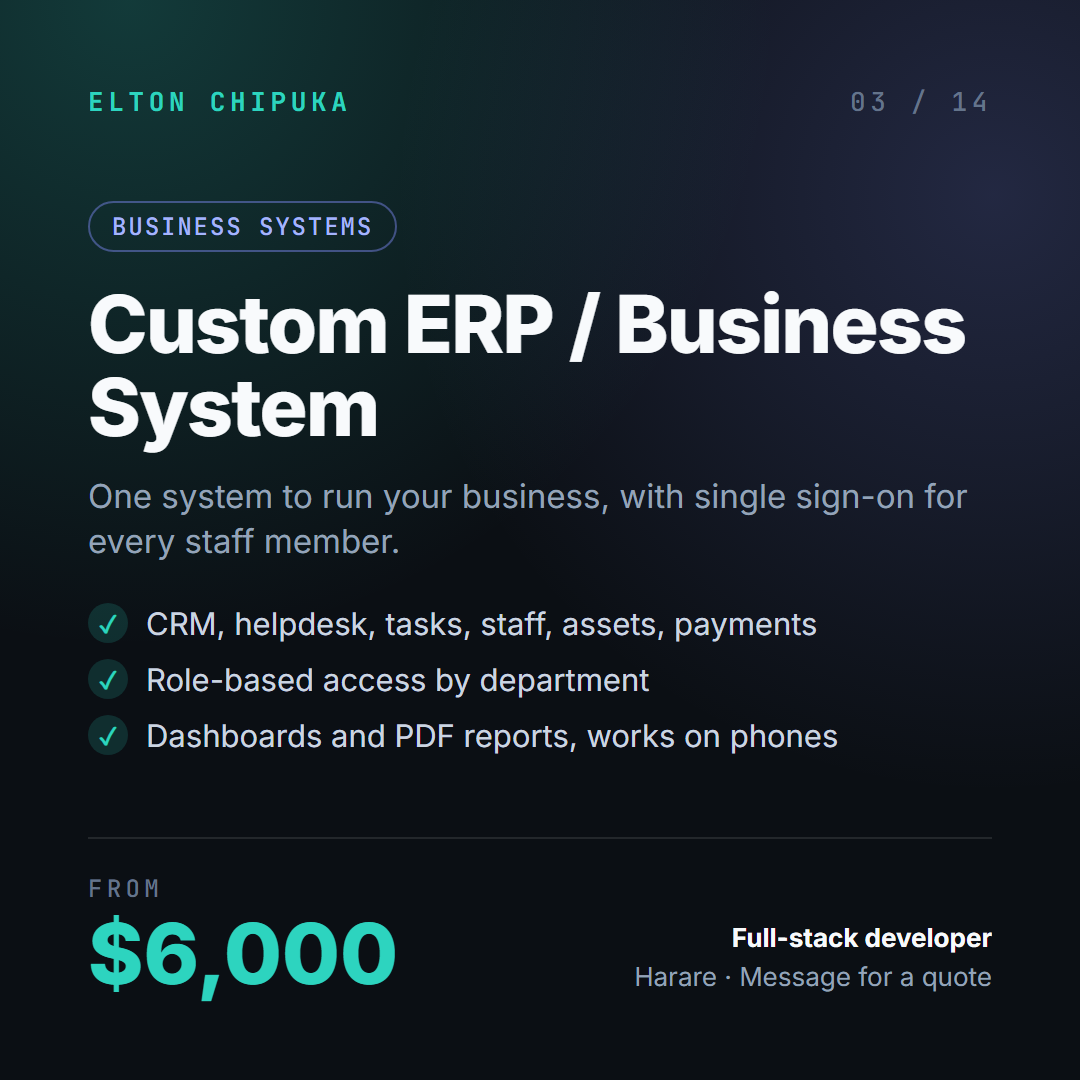
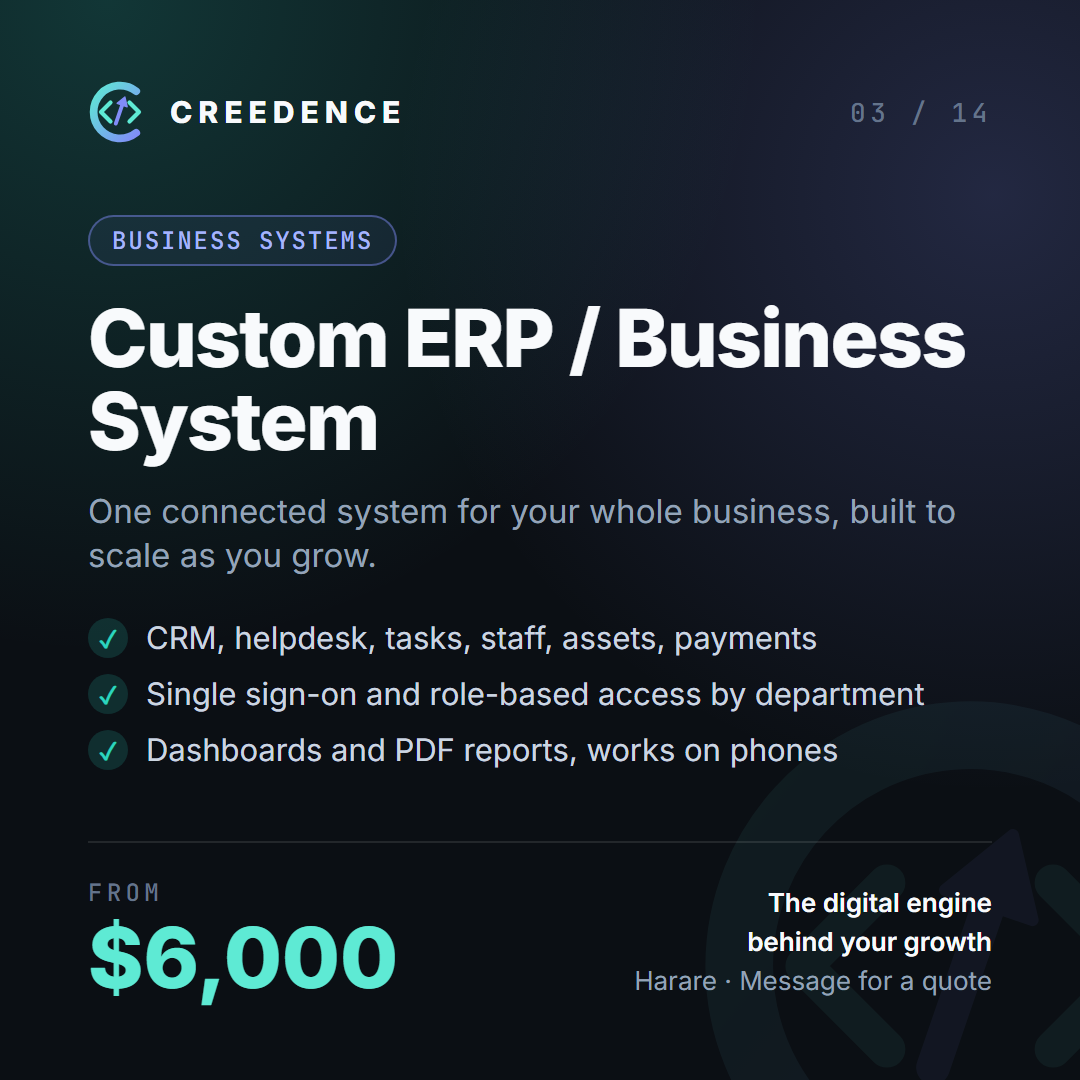
Rebrand the services catalogue as Creedence
Add the Creedence logo files under brand/ and rebuild the WhatsApp
catalogue around the new tagline, "The digital engine behind your
growth." Every cover image and the promo now carry the Creedence icon
and colours, item pitches are reworded around growth, and a light set of
images is rendered alongside the dark one. The preview page gets the new
branding, a theme toggle and theme-matched images. The portfolio's
contact link now names Creedence.

diff --git a/whatsapp-catalogue/preview.html b/whatsapp-catalogue/preview.html
@@ -1,4 +1,4 @@
-<title>Elton Chipuka Services</title>
+<title>Creedence Services</title>
 <meta name="claude:viewport-fit-sides" content="cover">
 <meta name="viewport" content="width=device-width, initial-scale=1, viewport-fit=cover">
 <link rel="stylesheet" href="https://fonts.googleapis.com/css2?family=Inter:wght@400;500;600;700;800&family=JetBrains+Mono:wght@500;700&display=swap">
@@ -35,6 +35,17 @@
   .hero { padding-block: 56px 28px; display: grid; gap: 14px; }
   .eyebrow, .tag, .code { font-family: var(--mono); font-size: 0.75rem; letter-spacing: 0.14em; text-transform: uppercase; }
   .eyebrow { color: var(--accent); margin: 0; font-weight: 700; }
+  .logo { display: flex; align-items: center; gap: 12px; margin: 0; }
+  .logo span { font-family: var(--sans); font-weight: 800; font-size: 1.25rem; letter-spacing: 0.2em; color: var(--fg); text-transform: uppercase; }
+  /* Two copies of the mark: dark-logo colours by default, light-logo colours in the light theme. */
+  .mark-light { display: none; }
+  @media (prefers-color-scheme: light) {
+    :root:not([data-theme="dark"]) .mark-dark { display: none; }
+    :root:not([data-theme="dark"]) .mark-light { display: block; }
+  }
+  :root[data-theme="light"] .mark-dark { display: none; }
+  :root[data-theme="light"] .mark-light { display: block; }
+  .theme-btn { margin-left: auto; }
   h1 { margin: 0; font-size: clamp(2rem, 6vw, 2.75rem); line-height: 1.1; letter-spacing: -0.02em; font-weight: 800; text-wrap: balance; }
   .lede { margin: 0; color: var(--muted); max-width: 60ch; }
   .contact { display: flex; flex-wrap: wrap; align-items: center; gap: 12px 16px; margin-top: 6px; }
@@ -119,11 +130,28 @@
 </style>
 
 <header class="wrap hero">
+  <div class="logo"><svg class="mark-dark" viewBox="318 318 364 364" width="48" height="48" aria-hidden="true">
+  <defs><linearGradient id="hero-d-ring" x1="0" y1="0" x2="1" y2="1"><stop offset="0" stop-color="#5eead4"/><stop offset="1" stop-color="#818cf8"/></linearGradient></defs>
+  <path d="M592.35 618.2 A150 150 0 1 1 592.35 381.8" fill="none" stroke="url(#hero-d-ring)" stroke-width="44" stroke-linecap="round"/>
+  <polyline points="446,446 392,500 446,554" fill="none" stroke="#5eead4" stroke-width="24" stroke-linecap="round" stroke-linejoin="round"/>
+  <polyline points="554,446 608,500 554,554" fill="none" stroke="#5eead4" stroke-width="24" stroke-linecap="round" stroke-linejoin="round"/>
+  <path d="M476 566 L514.21 454.7" fill="none" stroke="#818cf8" stroke-width="22" stroke-linecap="round"/>
+  <polygon points="527.84,414.98 540.63,470.12 483.88,450.63" fill="#818cf8" stroke="#818cf8" stroke-width="8" stroke-linejoin="round"/>
+</svg><svg class="mark-light" viewBox="318 318 364 364" width="48" height="48" aria-hidden="true">
+  <defs><linearGradient id="hero-l-ring" x1="0" y1="0" x2="1" y2="1"><stop offset="0" stop-color="#0f766e"/><stop offset="1" stop-color="#4f46e5"/></linearGradient></defs>
+  <path d="M592.35 618.2 A150 150 0 1 1 592.35 381.8" fill="none" stroke="url(#hero-l-ring)" stroke-width="44" stroke-linecap="round"/>
+  <polyline points="446,446 392,500 446,554" fill="none" stroke="#0f766e" stroke-width="24" stroke-linecap="round" stroke-linejoin="round"/>
+  <polyline points="554,446 608,500 554,554" fill="none" stroke="#0f766e" stroke-width="24" stroke-linecap="round" stroke-linejoin="round"/>
+  <path d="M476 566 L514.21 454.7" fill="none" stroke="#4f46e5" stroke-width="22" stroke-linecap="round"/>
+  <polygon points="527.84,414.98 540.63,470.12 483.88,450.63" fill="#4f46e5" stroke="#4f46e5" stroke-width="8" stroke-linejoin="round"/>
+</svg><span>Creedence</span>
+    <button type="button" class="icon-btn theme-btn" id="theme" aria-label="Switch theme"><svg viewBox="0 0 24 24" fill="none" stroke="currentColor" stroke-width="2" stroke-linecap="round"><circle cx="12" cy="12" r="4"/><path d="M12 2v2M12 20v2M4.93 4.93l1.41 1.41M17.66 17.66l1.41 1.41M2 12h2M20 12h2M6.34 17.66l-1.41 1.41M19.07 4.93l-1.41 1.41"/></svg></button>
+  </div>
   <p class="eyebrow">Services catalogue</p>
-  <h1>Elton Chipuka</h1>
-  <p class="lede">Full-stack developer in Harare, Zimbabwe. I build websites, online stores, business systems and mobile apps. Prices are starting prices in US dollars; message me for a quote that fits your requirements.</p>
+  <h1>The digital engine behind your growth.</h1>
+  <p class="lede">Creedence builds websites, online stores, business systems and mobile apps that help growing businesses sell more and run smoothly. Founded by Elton Chipuka, a full-stack developer in Harare, Zimbabwe. Prices are starting prices in US dollars; message me for a quote that fits your requirements.</p>
   <div class="contact">
-    <a class="btn btn-wa" href="https://wa.me/263787541207?text=Hi%20Elton%2C%20I%20saw%20your%20services%20catalogue%20and%20would%20like%20to%20discuss%20a%20project." target="_blank" rel="noreferrer">
+    <a class="btn btn-wa" href="https://wa.me/263787541207?text=Hi%20Elton%2C%20I%20saw%20the%20%24%7BBRAND%7D%20services%20catalogue%20and%20would%20like%20to%20discuss%20a%20project." target="_blank" rel="noreferrer">
       <svg viewBox="0 0 24 24" fill="none" stroke="currentColor" stroke-width="2"><path d="M7.9 20A9 9 0 1 0 4 16.1L2 22Z"/></svg>
       Chat on WhatsApp
     </a>
@@ -144,7 +172,7 @@
 <dialog id="detail" aria-labelledby="d-title"></dialog>
 
 <script>
-  const ITEMS = [{"code":"EC-WEB-01","tag":"Websites","name":"Business Website","price":300,"pitch":"A fast, professional website that sends enquiries straight to your WhatsApp.","features":["Up to 5 pages, designed mobile-first","WhatsApp chat button and contact form","Basic SEO: Google indexing, page titles, fast loading","Year-one hosting and .co.zw domain included"],"timeline":"1–2 weeks","extras":"Domain and hosting renewal from year two","proof":"My own portfolio site, built with React and TypeScript.","anchor":"","image":"images/01-ec-web-01.png","link":""},{"code":"EC-SHOP-01","tag":"E-commerce","name":"Online Store with Payments","price":600,"pitch":"Sell online with a product catalogue, cart and secure checkout.","features":["Paynow (EcoCash, cards), Stripe or PayPal","Quote requests and order tracking","Admin back office for products and orders"],"timeline":"3–5 weeks","extras":"Hosting, domain and payment processing fees","proof":"E-commerce and quotation platform for a curtain design and sales business.","anchor":"#projects","image":"images/02-ec-shop-01.png","link":""},{"code":"EC-ERP-01","tag":"Business systems","name":"Custom ERP / Business System","price":6000,"pitch":"One system to run your business, with single sign-on for every staff member.","features":["CRM, helpdesk, tasks, staff, assets, payments","Role-based access by department","Dashboards and PDF reports, works on phones"],"timeline":"2–4 months, delivered in phases","extras":"Hosting, data migration from old systems and third-party subscriptions","proof":"Enterprise ERP platform connecting multiple business services in one portal.","anchor":"#projects","image":"images/03-ec-erp-01.png","link":""},{"code":"EC-HELP-01","tag":"Business systems","name":"Helpdesk & Ticketing System","price":1500,"pitch":"Track every support request from open to closed, with nothing slipping through.","features":["Automatic assignment and SLA targets","Escalation when tickets run late","Email and real-time in-app notifications"],"timeline":"4–6 weeks","extras":"Hosting, and email or SMS charges","proof":"Helpdesk system that cut mean time to resolution by 25%.","anchor":"#projects","image":"images/04-ec-help-01.png","link":""},{"code":"EC-CRM-01","tag":"Business systems","name":"CRM & Customer Query System","price":1500,"pitch":"Log, route and resolve customer queries faster.","features":["Full customer and query history","SLA breach alerts","Live agent-performance dashboards"],"timeline":"4–6 weeks","extras":"Hosting, and email or SMS charges","proof":"Customer-care system handling 500+ queries a month, about 30% faster resolution.","anchor":"#projects","image":"images/05-ec-crm-01.png","link":""},{"code":"EC-FLOW-01","tag":"Automation","name":"Workflow & Approvals Automation","price":2500,"pitch":"Replace paper forms and email chains with tracked digital approvals.","features":["Multi-step approvals with e-signatures","Job cards, leave and purchase requests","Reminders, escalation and a full audit trail"],"timeline":"6–8 weeks","extras":"Hosting","proof":"Workflow engine powering six business products, from ticketing to performance reviews.","anchor":"#projects","image":"images/06-ec-flow-01.png","link":""},{"code":"EC-ASSET-01","tag":"Business systems","name":"Asset & Equipment Tracking","price":1200,"pitch":"Know who has every phone, laptop, POS unit or vehicle.","features":["Issue and return with approval sign-off","Fault tracking and live dashboard","Branded PDF reports"],"timeline":"3–5 weeks","extras":"Hosting","proof":"Tracks 300+ assets and reduced misplacement by 35%.","anchor":"#projects","image":"images/07-ec-asset-01.png","link":""},{"code":"EC-STAFF-01","tag":"Business systems","name":"Staff Deployment & Performance","price":2500,"pitch":"Schedule field staff and measure performance automatically.","features":["Daily and monthly performance scoring","Zone assignment and arrival check-in","Leave management and automated scheduling"],"timeline":"6–8 weeks","extras":"Hosting, and SMS charges","proof":"Runs 200+ staff across 200+ locations and improved deployment efficiency by about 40%.","anchor":"#projects","image":"images/08-ec-staff-01.png","link":""},{"code":"EC-APP-01","tag":"Mobile","name":"Mobile App (Android & iOS)","price":2500,"pitch":"A mobile app for your customers or staff, built for both platforms at once.","features":["GPS, maps and push notifications","Secure login and in-app payments","React Native or Flutter"],"timeline":"6–10 weeks","extras":"Hosting, plus Google Play and Apple developer accounts","proof":"Park-Check, a GPS smart-parking app with live countdowns and fine payments.","anchor":"#projects","image":"images/09-ec-app-01.png","link":""},{"code":"EC-GPS-01","tag":"Mapping","name":"GPS Tracking & Maps","price":2000,"pitch":"See your field staff or vehicles on a live map.","features":["Live location tracking","Geofenced zones with alerts","Map dashboards and reports"],"timeline":"4–6 weeks","extras":"GPS hardware, SIM and data charges, and hosting","proof":"Geofencing and live tracking platform for field staff.","anchor":"#projects","image":"images/10-ec-gps-01.png","link":""},{"code":"EC-INT-01","tag":"Integrations","name":"Payments & Notifications Setup","price":250,"pitch":"Add online payments and automatic alerts to your existing system.","features":["Paynow / EcoCash, Stripe or PayPal","SMS, email and WhatsApp alerts","Works with your current website or app"],"timeline":"1–2 weeks","extras":"Payment processing fees, and SMS or WhatsApp message charges","proof":"Multi-channel notification service sending SMS, email and WhatsApp alerts.","anchor":"#projects","image":"images/11-ec-int-01.png","link":""},{"code":"EC-BOT-01","tag":"WhatsApp","name":"WhatsApp Chatbot","price":500,"pitch":"Answer customers, take orders and handle bookings on WhatsApp, day and night.","features":["Menus, FAQs, orders and bookings in chat","Hand-over to a staff member when needed","Optional payments in chat: EcoCash and cards","Built on Meta's official WhatsApp Cloud API"],"timeline":"2–4 weeks","extras":"Meta's WhatsApp message fees, payment processing fees, a dedicated phone number, and hosting","proof":"Custom chatbots built with Node.js on the WhatsApp Business Cloud API.","anchor":"#contact","image":"images/12-ec-bot-01.png","link":""},{"code":"EC-DASH-01","tag":"Reporting","name":"Dashboards & Reports","price":400,"pitch":"Turn your spreadsheets and data into live dashboards.","features":["Charts and KPIs that update themselves","PDF and Excel exports","AI-written report summaries"],"timeline":"2–3 weeks","extras":"Hosting, and AI usage fees if AI summaries are included","proof":"Reporting engine with period comparisons and AI-generated summaries.","anchor":"#projects","image":"images/13-ec-dash-01.png","link":""},{"code":"EC-CARE-01","tag":"Support","name":"Monthly Support & Maintenance","price":50,"perMonth":true,"pitch":"Keep your website or system secure, backed up and up to date.","features":["Bug fixes and small changes","Backups, updates and monitoring","Priority response on WhatsApp"],"timeline":"Monthly, cancel any time","extras":"Each plan states its support hours, response times and backups","proof":"I maintain production systems used daily by hundreds of staff.","anchor":"#contact","image":"images/14-ec-care-01.png","link":""}];
+  const ITEMS = [{"code":"EC-WEB-01","tag":"Websites","name":"Business Website","price":300,"pitch":"A fast, professional website that turns visitors into WhatsApp enquiries.","features":["Up to 5 pages, designed mobile-first","WhatsApp chat button and contact form","Basic SEO: Google indexing, page titles, fast loading","Year-one hosting and .co.zw domain included"],"timeline":"1–2 weeks","extras":"Domain and hosting renewal from year two","proof":"My own portfolio site, built with React and TypeScript.","anchor":"","image":"images/01-ec-web-01.png","imageLight":"images-light/01-ec-web-01.png","link":""},{"code":"EC-SHOP-01","tag":"E-commerce","name":"Online Store with Payments","price":600,"pitch":"Sell around the clock with a product catalogue, cart and secure checkout.","features":["Paynow (EcoCash, cards), Stripe or PayPal","Quote requests and order tracking","Admin back office for products and orders"],"timeline":"3–5 weeks","extras":"Hosting, domain and payment processing fees","proof":"E-commerce and quotation platform for a curtain design and sales business.","anchor":"#projects","image":"images/02-ec-shop-01.png","imageLight":"images-light/02-ec-shop-01.png","link":""},{"code":"EC-ERP-01","tag":"Business systems","name":"Custom ERP / Business System","price":6000,"pitch":"One connected system for your whole business, built to scale as you grow.","features":["CRM, helpdesk, tasks, staff, assets, payments","Single sign-on and role-based access by department","Dashboards and PDF reports, works on phones"],"timeline":"2–4 months, delivered in phases","extras":"Hosting, data migration from old systems and third-party subscriptions","proof":"Enterprise ERP platform connecting multiple business services in one portal.","anchor":"#projects","image":"images/03-ec-erp-01.png","imageLight":"images-light/03-ec-erp-01.png","link":""},{"code":"EC-HELP-01","tag":"Business systems","name":"Helpdesk & Ticketing System","price":1500,"pitch":"Resolve every support request faster, with nothing slipping through.","features":["Automatic assignment and SLA targets","Escalation when tickets run late","Email and real-time in-app notifications"],"timeline":"4–6 weeks","extras":"Hosting, and email or SMS charges","proof":"Helpdesk system that cut mean time to resolution by 25%.","anchor":"#projects","image":"images/04-ec-help-01.png","imageLight":"images-light/04-ec-help-01.png","link":""},{"code":"EC-CRM-01","tag":"Business systems","name":"CRM & Customer Query System","price":1500,"pitch":"Log, route and resolve customer queries faster, and keep customers coming back.","features":["Full customer and query history","SLA breach alerts","Live agent-performance dashboards"],"timeline":"4–6 weeks","extras":"Hosting, and email or SMS charges","proof":"Customer-care system handling 500+ queries a month, about 30% faster resolution.","anchor":"#projects","image":"images/05-ec-crm-01.png","imageLight":"images-light/05-ec-crm-01.png","link":""},{"code":"EC-FLOW-01","tag":"Automation","name":"Workflow & Approvals Automation","price":2500,"pitch":"Replace paper forms and email chains with fast, tracked digital approvals.","features":["Multi-step approvals with e-signatures","Job cards, leave and purchase requests","Reminders, escalation and a full audit trail"],"timeline":"6–8 weeks","extras":"Hosting","proof":"Workflow engine powering six business products, from ticketing to performance reviews.","anchor":"#projects","image":"images/06-ec-flow-01.png","imageLight":"images-light/06-ec-flow-01.png","link":""},{"code":"EC-ASSET-01","tag":"Business systems","name":"Asset & Equipment Tracking","price":1200,"pitch":"Know who has every phone, laptop, POS unit or vehicle.","features":["Issue and return with approval sign-off","Fault tracking and live dashboard","Branded PDF reports"],"timeline":"3–5 weeks","extras":"Hosting","proof":"Tracks 300+ assets and reduced misplacement by 35%.","anchor":"#projects","image":"images/07-ec-asset-01.png","imageLight":"images-light/07-ec-asset-01.png","link":""},{"code":"EC-STAFF-01","tag":"Business systems","name":"Staff Deployment & Performance","price":2500,"pitch":"Schedule field staff and measure performance automatically.","features":["Daily and monthly performance scoring","Zone assignment and arrival check-in","Leave management and automated scheduling"],"timeline":"6–8 weeks","extras":"Hosting, and SMS charges","proof":"Runs 200+ staff across 200+ locations and improved deployment efficiency by about 40%.","anchor":"#projects","image":"images/08-ec-staff-01.png","imageLight":"images-light/08-ec-staff-01.png","link":""},{"code":"EC-APP-01","tag":"Mobile","name":"Mobile App (Android & iOS)","price":2500,"pitch":"Reach customers and staff on their phones, on Android and iOS at once.","features":["GPS, maps and push notifications","Secure login and in-app payments","React Native or Flutter"],"timeline":"6–10 weeks","extras":"Hosting, plus Google Play and Apple developer accounts","proof":"Park-Check, a GPS smart-parking app with live countdowns and fine payments.","anchor":"#projects","image":"images/09-ec-app-01.png","imageLight":"images-light/09-ec-app-01.png","link":""},{"code":"EC-GPS-01","tag":"Mapping","name":"GPS Tracking & Maps","price":2000,"pitch":"See your field staff or vehicles on a live map.","features":["Live location tracking","Geofenced zones with alerts","Map dashboards and reports"],"timeline":"4–6 weeks","extras":"GPS hardware, SIM and data charges, and hosting","proof":"Geofencing and live tracking platform for field staff.","anchor":"#projects","image":"images/10-ec-gps-01.png","imageLight":"images-light/10-ec-gps-01.png","link":""},{"code":"EC-INT-01","tag":"Integrations","name":"Payments & Notifications Setup","price":250,"pitch":"Get paid online and keep customers informed automatically.","features":["Paynow / EcoCash, Stripe or PayPal","SMS, email and WhatsApp alerts","Works with your current website or app"],"timeline":"1–2 weeks","extras":"Payment processing fees, and SMS or WhatsApp message charges","proof":"Multi-channel notification service sending SMS, email and WhatsApp alerts.","anchor":"#projects","image":"images/11-ec-int-01.png","imageLight":"images-light/11-ec-int-01.png","link":""},{"code":"EC-BOT-01","tag":"WhatsApp","name":"WhatsApp Chatbot","price":500,"pitch":"Answer customers, take orders and handle bookings on WhatsApp, day and night.","features":["Menus, FAQs, orders and bookings in chat","Hand-over to a staff member when needed","Optional payments in chat: EcoCash and cards","Built on Meta's official WhatsApp Cloud API"],"timeline":"2–4 weeks","extras":"Meta's WhatsApp message fees, payment processing fees, a dedicated phone number, and hosting","proof":"Custom chatbots built with Node.js on the WhatsApp Business Cloud API.","anchor":"#contact","image":"images/12-ec-bot-01.png","imageLight":"images-light/12-ec-bot-01.png","link":""},{"code":"EC-DASH-01","tag":"Reporting","name":"Dashboards & Reports","price":400,"pitch":"Turn your spreadsheets into live dashboards that show where to grow.","features":["Charts and KPIs that update themselves","PDF and Excel exports","AI-written report summaries"],"timeline":"2–3 weeks","extras":"Hosting, and AI usage fees if AI summaries are included","proof":"Reporting engine with period comparisons and AI-generated summaries.","anchor":"#projects","image":"images/13-ec-dash-01.png","imageLight":"images-light/13-ec-dash-01.png","link":""},{"code":"EC-CARE-01","tag":"Support","name":"Monthly Support & Maintenance","price":50,"perMonth":true,"pitch":"Keep your website or system secure, backed up and growing with you.","features":["Bug fixes and small changes","Backups, updates and monitoring","Priority response on WhatsApp"],"timeline":"Monthly, cancel any time","extras":"Each plan states its support hours, response times and backups","proof":"I maintain production systems used daily by hundreds of staff.","anchor":"#contact","image":"images/14-ec-care-01.png","imageLight":"images-light/14-ec-care-01.png","link":""}];
   const WA = '263787541207';
   const esc = (s) => String(s).replace(/[&<>"]/g, (c) => ({ '&': '&amp;', '<': '&lt;', '>': '&gt;', '"': '&quot;' })[c]);
   const usd = (n) => '$' + n.toLocaleString('en-US');
@@ -173,7 +201,7 @@
     visible = active === 'All' ? ITEMS : ITEMS.filter((it) => it.tag === active);
     list.innerHTML = visible.map((it, i) =>
       '<li><button type="button" class="row" data-i="' + i + '">' +
-        '<img src="' + it.image + '" alt="" width="88" height="88" loading="lazy">' +
+        '<img src="' + imageFor(it) + '" alt="" width="88" height="88" loading="lazy">' +
         '<span class="row-text">' +
           '<span class="tag">' + esc(it.tag) + '</span>' +
           '<span class="row-name">' + esc(it.name) + '</span>' +
@@ -193,7 +221,7 @@
     const it = visible[i];
     dialog.innerHTML =
       '<div class="detail">' +
-        '<img src="' + it.image + '" alt="' + esc(it.name) + ' cover image">' +
+        '<img src="' + imageFor(it) + '" alt="' + esc(it.name) + ' cover image">' +
         '<div class="d-body">' +
           '<div class="d-head"><div><span class="tag">' + esc(it.tag) + '</span><h2 id="d-title">' + esc(it.name) + '</h2></div>' +
             '<button type="button" class="icon-btn" data-act="close" aria-label="Close"><svg viewBox="0 0 24 24" fill="none" stroke="currentColor" stroke-width="2"><path d="M6 6l12 12M18 6 6 18"/></svg></button></div>' +
@@ -232,6 +260,27 @@
     if (e.key === 'ArrowLeft' && current > 0) openItem(current - 1);
     if (e.key === 'ArrowRight' && current < visible.length - 1) openItem(current + 1);
   });
+
+  // Theme toggle: starts from the system setting; a saved choice wins.
+  const root = document.documentElement;
+  try { const saved = localStorage.getItem("theme"); if (saved === "light" || saved === "dark") root.dataset.theme = saved; } catch (e) {}
+  const isLight = () => root.dataset.theme ? root.dataset.theme === "light" : matchMedia("(prefers-color-scheme: light)").matches;
+  const themeBtn = document.getElementById("theme");
+  const labelTheme = () => themeBtn.setAttribute("aria-label", isLight() ? "Switch to dark theme" : "Switch to light theme");
+  themeBtn.addEventListener("click", () => {
+    root.dataset.theme = isLight() ? "dark" : "light";
+    try { localStorage.setItem("theme", root.dataset.theme); } catch (e) {}
+    onTheme();
+  });
+  // Show the cover images that match the theme.
+  function imageFor(it) { return isLight() ? it.imageLight : it.image; }
+  function onTheme() {
+    labelTheme();
+    renderList();
+    if (dialog.open) openItem(current);
+  }
+  matchMedia("(prefers-color-scheme: light)").addEventListener("change", () => { if (!root.dataset.theme) onTheme(); });
+  labelTheme();
 
   renderList();
   const start = ITEMS.findIndex((it) => it.code.toLowerCase() === location.hash.slice(1).toLowerCase());

diff --git a/src/components/Contact.tsx b/src/components/Contact.tsx
@@ -63,7 +63,7 @@ export default function Contact() {
             rel="noreferrer"
             className="inline-flex items-center gap-1.5 text-sm font-medium text-accent hover:underline"
           >
-            Services &amp; prices on WhatsApp
+            Creedence services &amp; prices on WhatsApp
             <ArrowUpRight className="h-4 w-4" />
           </a>
         </div>

diff --git a/whatsapp-catalogue/CATALOGUE.md b/whatsapp-catalogue/CATALOGUE.md
@@ -1,6 +1,15 @@
-# WhatsApp Business Catalogue
+# Creedence: WhatsApp Business Catalogue
 
 Generated by `build.mjs`. Edit the items there and rerun; don't edit this file by hand.
+
+**Business profile** (WhatsApp Business → Settings → Business tools → Business profile):
+
+| Field | Value |
+| --- | --- |
+| Name | Creedence |
+| Category | IT Services |
+| Description | The digital engine behind your growth. Websites, online stores, business systems, mobile apps and WhatsApp chatbots, built in Harare by Elton Chipuka. |
+| Profile photo | `brand/creedence-icon.png` (the icon reads best at WhatsApp's small circular size) |
 
 **Adding items:** WhatsApp Business → Tools (or Settings → Business tools) → Catalogue → Add new item.
 Upload the image, then copy each field below. Prices are suggested starting prices; change them in `build.mjs`.
@@ -28,7 +37,7 @@ Upload the image, then copy each field below. Prices are suggested starting pric
 Description:
 
 ```text
-A fast, professional website that sends enquiries straight to your WhatsApp.
+A fast, professional website that turns visitors into WhatsApp enquiries.
 
 What's included:
 • Up to 5 pages, designed mobile-first
@@ -57,7 +66,7 @@ Starting price shown. Final quote depends on your requirements. Message me to di
 Description:
 
 ```text
-Sell online with a product catalogue, cart and secure checkout.
+Sell around the clock with a product catalogue, cart and secure checkout.
 
 What's included:
 • Paynow (EcoCash, cards), Stripe or PayPal
@@ -85,11 +94,11 @@ Starting price shown. Final quote depends on your requirements. Message me to di
 Description:
 
 ```text
-One system to run your business, with single sign-on for every staff member.
+One connected system for your whole business, built to scale as you grow.
 
 What's included:
 • CRM, helpdesk, tasks, staff, assets, payments
-• Role-based access by department
+• Single sign-on and role-based access by department
 • Dashboards and PDF reports, works on phones
 
 Timeline: 2–4 months, delivered in phases
@@ -113,7 +122,7 @@ Starting price shown. Final quote depends on your requirements. Message me to di
 Description:
 
 ```text
-Track every support request from open to closed, with nothing slipping through.
+Resolve every support request faster, with nothing slipping through.
 
 What's included:
 • Automatic assignment and SLA targets
@@ -141,7 +150,7 @@ Starting price shown. Final quote depends on your requirements. Message me to di
 Description:
 
 ```text
-Log, route and resolve customer queries faster.
+Log, route and resolve customer queries faster, and keep customers coming back.
 
 What's included:
 • Full customer and query history
@@ -169,7 +178,7 @@ Starting price shown. Final quote depends on your requirements. Message me to di
 Description:
 
 ```text
-Replace paper forms and email chains with tracked digital approvals.
+Replace paper forms and email chains with fast, tracked digital approvals.
 
 What's included:
 • Multi-step approvals with e-signatures
@@ -253,7 +262,7 @@ Starting price shown. Final quote depends on your requirements. Message me to di
 Description:
 
 ```text
-A mobile app for your customers or staff, built for both platforms at once.
+Reach customers and staff on their phones, on Android and iOS at once.
 
 What's included:
 • GPS, maps and push notifications
@@ -309,7 +318,7 @@ Starting price shown. Final quote depends on your requirements. Message me to di
 Description:
 
 ```text
-Add online payments and automatic alerts to your existing system.
+Get paid online and keep customers informed automatically.
 
 What's included:
 • Paynow / EcoCash, Stripe or PayPal
@@ -366,7 +375,7 @@ Starting price shown. Final quote depends on your requirements. Message me to di
 Description:
 
 ```text
-Turn your spreadsheets and data into live dashboards.
+Turn your spreadsheets into live dashboards that show where to grow.
 
 What's included:
 • Charts and KPIs that update themselves
@@ -394,7 +403,7 @@ Starting price shown. Final quote depends on your requirements. Message me to di
 Description:
 
 ```text
-Keep your website or system secure, backed up and up to date.
+Keep your website or system secure, backed up and growing with you.
 
 What's included:
 • Bug fixes and small changes
